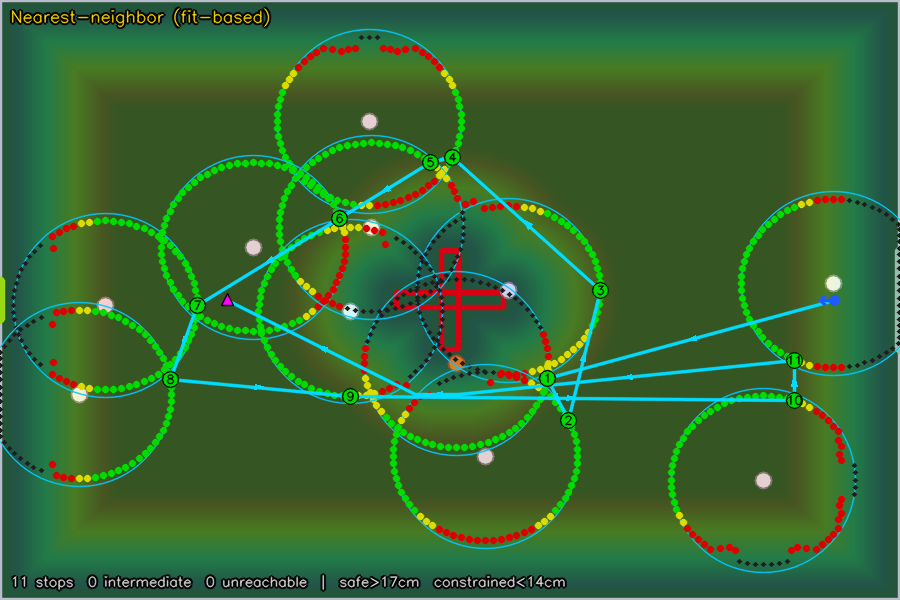
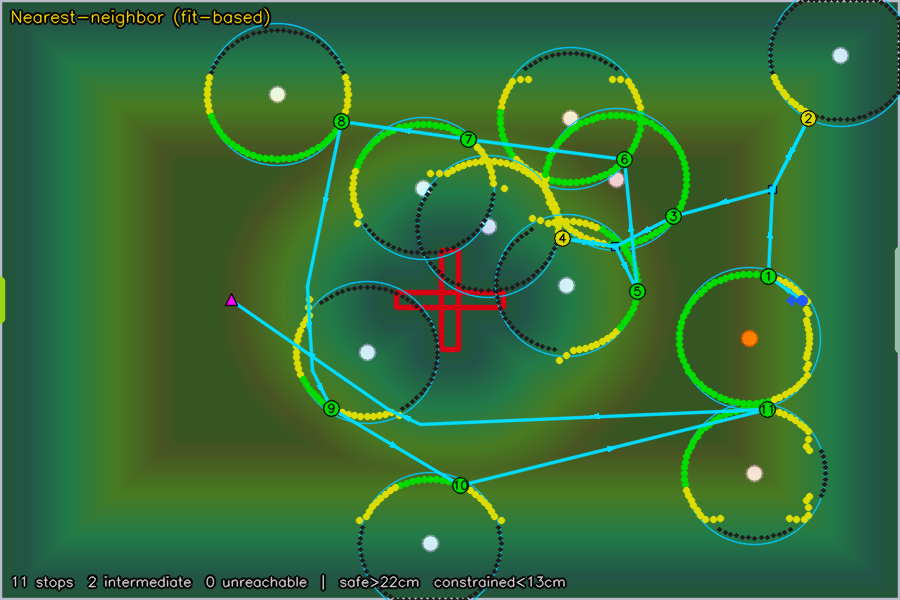
Updates the path layer to use actual rt values from robot_calibration.json and upgraded the visualizer

diff --git a/path/tools/pickup_visualizer.py b/path/tools/pickup_visualizer.py
@@ -16,6 +16,7 @@ from __future__ import annotations
 import argparse
 import math
 import sys
+from enum import Enum
 from pathlib import Path
 
 import cv2
@@ -59,6 +60,15 @@ from perception.vision.grid_mapping import OccupancyGridBuilder
 WINDOW_NAME = "Pickup Geometry Visualizer"
 OUTPUT_DIR = Path(__file__).resolve().parent / "output"
 OUTPUT_FILE = OUTPUT_DIR / "pickup_geometry.png"
+
+
+class OverlayMode(Enum):
+    """Which background overlay to render behind pickup candidates."""
+
+    HEATMAP = "heatmap"      # continuous distance field (JET colormap)
+    COLLISION = "collision"  # binary blocked grid (robot body clearance)
+    NONE = "none"            # no overlay
+
 
 # Category colors (BGR)
 CATEGORY_COLORS = {
@@ -228,25 +238,43 @@ def draw_pickup_geometry(
     result: PickupGeometryResult,
     mapper: CoordinateMapper,
     field_config: FieldConfig,
+    overlay_mode: OverlayMode = OverlayMode.HEATMAP,
+    half_width_cm: float = 0.0,
 ) -> np.ndarray:
     """Overlay pickup geometry onto an existing schematic image.
 
-    Draws distance-field heatmap, per-ball rings, and color-coded candidates
-    (green=SAFE, yellow=IN_BETWEEN, red=CONSTRAINED).
+    Draws distance-field heatmap or collision map, per-ball rings, and
+    color-coded candidates (green=SAFE, yellow=IN_BETWEEN, red=CONSTRAINED).
+
+    Parameters
+    ----------
+    overlay_mode:
+        HEATMAP  — continuous distance field (JET colormap).
+        COLLISION — binary blocked grid (red = robot body doesn't fit).
+        NONE     — no background overlay.
+    half_width_cm:
+        Robot half-width for the collision map threshold.  Only used when
+        *overlay_mode* is COLLISION.
     """
     h, w = image.shape[:2]
 
-    # --- Distance field heatmap overlay ---
     df = result.distance_field
-    if df.size > 0:
+    if df.size > 0 and overlay_mode == OverlayMode.HEATMAP:
+        # --- Distance field heatmap overlay ---
         max_d = max(result.tank_turn_radius_cm * 1.5, 1.0)
         normalized = np.clip(df / max_d, 0.0, 1.0)
-        # Resize to schematic size
         resized = cv2.resize(normalized.astype(np.float32), (w, h), interpolation=cv2.INTER_LINEAR)
-        # Flip vertically (grid is top-left origin, schematic matches)
         heatmap_u8 = (resized * 255).astype(np.uint8)
         heatmap_bgr = cv2.applyColorMap(heatmap_u8, cv2.COLORMAP_JET)
         cv2.addWeighted(heatmap_bgr, 0.15, image, 0.85, 0, image)
+    elif df.size > 0 and overlay_mode == OverlayMode.COLLISION:
+        # --- Binary collision map overlay ---
+        blocked = (df < half_width_cm).astype(np.uint8)
+        resized = cv2.resize(blocked, (w, h), interpolation=cv2.INTER_NEAREST)
+        overlay = np.zeros_like(image)
+        overlay[resized > 0] = (0, 0, 200)   # red = blocked
+        overlay[resized == 0] = (80, 50, 0)   # dark blue-gray = free
+        cv2.addWeighted(overlay, 0.35, image, 0.65, 0, image)
 
     # --- Per-ball rings and candidates ---
     for ball_cands in result.balls:
@@ -506,6 +534,7 @@ def _compute_and_render(
     seed: int,
     strategy_option: StrategyOption,
     compile_strategy: CompileStrategy = CompileStrategy.MINIMAL,
+    overlay_mode: OverlayMode = OverlayMode.HEATMAP,
     quiet: bool = False,
 ) -> tuple[np.ndarray, RoutePlan]:
     """Generate a scenario, compute geometry + route, render, and print summary.
@@ -565,7 +594,11 @@ def _compute_and_render(
 
     # Render
     image = render_base_schematic(state)
-    draw_pickup_geometry(image, result, state.renderer.mapper, config.field)
+    draw_pickup_geometry(
+        image, result, state.renderer.mapper, config.field,
+        overlay_mode=overlay_mode,
+        half_width_cm=geometry.width_cm * 0.5,
+    )
     draw_route_plan(image, strategy_result, result, state.renderer.mapper, config.field, start,
                     route_plan=route_plan)
     draw_start_marker(image, start, state.renderer.mapper)
@@ -702,7 +735,20 @@ def main() -> int:
     config = AppConfig.from_repo_root(REPO_ROOT)
     renderer = SchematicRenderer(config.field, config.windows, config.robot)
     occupancy_builder = OccupancyGridBuilder(config.field, config.robot, renderer.mapper)
-    geometry = renderer.robot_geometry_from_params(None)
+
+    # Load geometry from the calibration file (single source of truth),
+    # falling back to config defaults if the file is absent or incomplete.
+    geo_params: dict[str, object] = {}
+    cal_path = config.paths.robot_calibration_file
+    if cal_path is not None and cal_path.exists():
+        import json as _json
+        with cal_path.open() as _f:
+            _cal = _json.load(_f)
+        from localization.localization import RobotCalibrationCollector
+        RobotCalibrationCollector.apply_geometry_to_params(
+            geo_params, _cal.get("geometry"),
+        )
+    geometry = renderer.robot_geometry_from_params(geo_params or None)
     state = SandboxState(config=config, renderer=renderer)
 
     compile_strategy = CompileStrategy(args.compile)
@@ -721,13 +767,16 @@ def main() -> int:
         if option.key == args.strategy
     )
     image: np.ndarray | None = None
+    overlay_mode = OverlayMode.HEATMAP
+    _OVERLAY_CYCLE = [OverlayMode.HEATMAP, OverlayMode.COLLISION, OverlayMode.NONE]
 
     cv2.namedWindow(WINDOW_NAME, cv2.WINDOW_NORMAL)
     cv2.resizeWindow(WINDOW_NAME, config.windows.schematic_width_px, config.windows.schematic_height_px)
 
     HELP_TEXT = (
         "Press 'r' to randomize, 's' to cycle strategy, "
-        "'c' to toggle compile strategy, Esc/q to quit."
+        "'c' to toggle compile strategy, 'v' to cycle overlay "
+        "(heatmap/collision/none), Esc/q to quit."
     )
 
     def render_current() -> None:
@@ -739,6 +788,7 @@ def main() -> int:
             seed,
             STRATEGY_OPTIONS[strategy_index],
             compile_strategy=compile_strategy,
+            overlay_mode=overlay_mode,
         )
         cv2.imshow(WINDOW_NAME, image)
 
@@ -763,6 +813,12 @@ def main() -> int:
             else:
                 compile_strategy = CompileStrategy.MINIMAL
             render_current()
+            print(f"\n{HELP_TEXT}")
+        if key == ord("v"):
+            idx = _OVERLAY_CYCLE.index(overlay_mode)
+            overlay_mode = _OVERLAY_CYCLE[(idx + 1) % len(_OVERLAY_CYCLE)]
+            render_current()
+            print(f"Overlay: {overlay_mode.value}")
             print(f"\n{HELP_TEXT}")
 
     cv2.destroyAllWindows()

diff --git a/localization/localization.py b/localization/localization.py
@@ -188,6 +188,7 @@ class RobotPoseEstimator:
             tube_width_cm=float(params.get("tube_width_cm", self.planner_config.tube_width_cm)),
             mouth_radius_cm=float(params.get("mouth_radius_cm", self.planner_config.mouth_radius_cm)),
             unload_extension_cm=float(params.get("unload_extension_cm", self.planner_config.unload_extension_cm)),
+            pipe_diameter_cm=float(params.get("pipe_diameter_cm", self.planner_config.pipe_diameter_cm)),
         )
 
     def parallax_config_from_live_params(
@@ -520,6 +521,7 @@ class RobotCalibrationCollector:
             "tube_width_cm": float(geometry.tube_width_cm),
             "mouth_radius_cm": float(geometry.mouth_radius_cm),
             "unload_extension_cm": float(geometry.unload_extension_cm),
+            "pipe_diameter_cm": float(geometry.pipe_diameter_cm),
             "heading_tuning_rad": float(heading_tuning_rad),
             "heading_tuning_deg": math.degrees(float(heading_tuning_rad)),
         }
@@ -557,6 +559,7 @@ class RobotCalibrationCollector:
             "tube_width_cm": "tube_width_cm",
             "mouth_radius_cm": "mouth_radius_cm",
             "unload_extension_cm": "unload_extension_cm",
+            "pipe_diameter_cm": "pipe_diameter_cm",
             "heading_tuning_rad": "heading_tuning_rad",
         }
         for source_key, param_key in mapping.items():

diff --git a/test/test_route_collision.py b/test/test_route_collision.py
@@ -17,6 +17,7 @@ import pytest
 from config import FieldConfig
 from localization.models import RobotGeometry
 from path.models import HybridPose, PlannedBallTarget, WaypointKind
+from conftest import load_test_geometry
 from path.pickup_geometry import (
     PickupCandidate,
     PickupCategory,
@@ -39,7 +40,6 @@ from path.route_strategy import RouteStop, RouteStrategyResult
 
 CROSS_SIZE_CM = 20.0
 CROSS_ARM_WIDTH_CM = 3.0
-HALF_WIDTH_CM = 9.75  # robot half-body width (19.5 / 2)
 
 
 # ---------------------------------------------------------------------------
@@ -51,15 +51,10 @@ def make_field_config() -> FieldConfig:
 
 
 def make_geometry() -> RobotGeometry:
-    return RobotGeometry(
-        width_cm=19.5,
-        front_cm=3.8,
-        rear_cm=15.1,
-        tube_forward_cm=13.1,
-        tube_right_cm=0.0,
-        tube_width_cm=6.0,
-        mouth_radius_cm=2.0,
-    )
+    return load_test_geometry()
+
+
+HALF_WIDTH_CM = make_geometry().width_cm / 2  # robot half-body width
 
 
 def make_cross_obstacle_grid(

diff --git a/test/conftest.py b/test/conftest.py
@@ -1,0 +1,27 @@
+"""Shared test fixtures and helpers."""
+
+from __future__ import annotations
+
+import json
+from pathlib import Path
+
+from localization.models import RobotGeometry
+
+
+def load_test_geometry() -> RobotGeometry:
+    """Load RobotGeometry from the calibration file (single source of truth)."""
+    path = Path(__file__).resolve().parent.parent / "data" / "robot_calibration.json"
+    with path.open() as f:
+        cal = json.load(f)
+    geo = cal["geometry"]
+    return RobotGeometry(
+        width_cm=geo["width_cm"],
+        front_cm=geo["front_cm"],
+        rear_cm=geo["rear_cm"],
+        tube_forward_cm=geo["tube_forward_cm"],
+        tube_right_cm=geo["tube_right_cm"],
+        tube_width_cm=geo.get("tube_width_cm", 6.0),
+        mouth_radius_cm=geo.get("mouth_radius_cm", 2.0),
+        unload_extension_cm=geo.get("unload_extension_cm", 30.0),
+        pipe_diameter_cm=geo.get("pipe_diameter_cm", 4.5),
+    )

diff --git a/path/pickup_geometry.py b/path/pickup_geometry.py
@@ -29,9 +29,6 @@ from path.models import PlannedBallTarget
 
 DEFAULT_N_SAMPLES = 72
 
-# Physical pickup pipe diameter (cm).  Used for tube sweep radius calculation.
-PIPE_DIAMETER_CM = 4.5
-
 
 # ---------------------------------------------------------------------------
 # Data structures
@@ -223,7 +220,7 @@ def compute_pickup_geometry(
     R = pickup_reach_cm(geometry)
     half_width = geometry.width_cm * 0.5
     tank_turn_radius = math.hypot(geometry.rear_cm, half_width)
-    tube_sweep_radius = math.hypot(geometry.tube_forward_cm, PIPE_DIAMETER_CM * 0.5)
+    tube_sweep_radius = math.hypot(geometry.tube_forward_cm, geometry.pipe_diameter_cm * 0.5)
     # Classification thresholds: safe above the larger, constrained below the smaller.
     safe_radius = max(tank_turn_radius, tube_sweep_radius)
     constrained_radius = min(tank_turn_radius, tube_sweep_radius)

diff --git a/test/test_route_strategy.py b/test/test_route_strategy.py
@@ -17,6 +17,7 @@ from config import FieldConfig
 from localization.models import RobotGeometry
 from path.models import HybridPose, PlannedBallTarget
 from path.pickup_geometry import compute_pickup_geometry
+from conftest import load_test_geometry
 from path.route_strategy import (
     IntersectionPriorityStrategy,
     NearestNeighborStrategy,
@@ -40,15 +41,7 @@ def make_field_config() -> FieldConfig:
 
 
 def make_geometry() -> RobotGeometry:
-    return RobotGeometry(
-        width_cm=19.5,
-        front_cm=3.8,
-        rear_cm=15.1,
-        tube_forward_cm=13.1,
-        tube_right_cm=0.0,
-        tube_width_cm=6.0,
-        mouth_radius_cm=2.0,
-    )
+    return load_test_geometry()
 
 
 CROSS_SIZE_CM = 20.0

diff --git a/gui/MainGUI.py b/gui/MainGUI.py
@@ -528,6 +528,7 @@ class MainGui:
         self.params.setdefault("tube_width_cm", planner.tube_width_cm)
         self.params.setdefault("mouth_radius_cm", planner.mouth_radius_cm)
         self.params.setdefault("unload_extension_cm", planner.unload_extension_cm)
+        self.params.setdefault("pipe_diameter_cm", planner.pipe_diameter_cm)
         self.params.setdefault("heading_tuning_rad", 0.0)
         # Crop monitor HSV params (white ball detection in fixed crops)
         self.params.setdefault("crop_size", 60)

diff --git a/localization/models.py b/localization/models.py
@@ -98,6 +98,7 @@ class RobotGeometry:
     tube_width_cm: float = 6.0  # pickup tube opening diameter
     mouth_radius_cm: float = 2.0  # tolerance radius around tube tip
     unload_extension_cm: float = 30.0  # reverse distance when unloading
+    pipe_diameter_cm: float = 4.5  # physical pickup pipe outer diameter
 
 
 @dataclass(frozen=True)

diff --git a/config.py b/config.py
@@ -308,6 +308,7 @@ class PlannerConfig:
     tube_width_cm: float = 6.0
     mouth_radius_cm: float = 2.0
     unload_extension_cm: float = 30.0
+    pipe_diameter_cm: float = 4.5
 
     @property
     def route_target_reached_cm(self) -> float:
